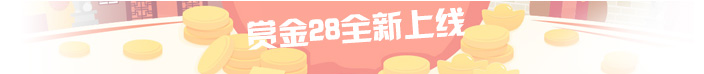
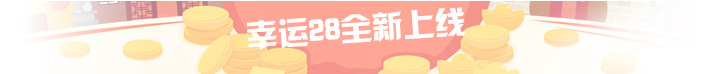
[F]xy2-8

Changed region(s): [[0.3438, 0.2432, 0.4375, 0.6757]]

diff --git a/OWZX/Presentation/OWZX.Web/css/base.css b/OWZX/Presentation/OWZX.Web/css/base.css
@@ -183,7 +183,7 @@ height:36px;margin-top:10px; margin-left:94px;
 #navItme li a.index {background: url(../images/ico.png);background-position: -2px -121px;padding-left: 20px;}
 
 
-#footer{ width:100%;  background:bottom #FFF; margin-top:40px;}
+#footer{ width:100%;  background:bottom #FFF; /*margin-top:40px;*/}
 #footer .box{ width:1000px; padding-left:46px;}
 .footerBox{ padding:18px 0;}
 
@@ -193,7 +193,7 @@ height:36px;margin-top:10px; margin-left:94px;
 .footerBox a:hover{color:#e33b3d;}
 
 
-.footerB{ border-top:1px solid #cacaca; padding-top:10px;}
+.footerB{ /*border-top:1px solid #cacaca;*/ padding-top:10px;}
 #footerB{padding-bottom:30px;text-align:center}
 #footerB div{text-align:center}
 #footerB .links { text-align:center;color:white;}

diff --git a/OWZX/Presentation/OWZX.Web/css/lottery.css b/OWZX/Presentation/OWZX.Web/css/lottery.css
@@ -322,7 +322,7 @@ width:910px; border:0;
 }
 
 #play i {
-    font-size:16px;font-weight:600;color:#c30000;
+    font-size:18px;font-weight:600;color:#c30000;
 }
 
 #play td,.table_rule td {

diff --git a/OWZX/Strategies/OWZX.EmailStrategy.DotNet/EmailStrategy.cs b/OWZX/Strategies/OWZX.EmailStrategy.DotNet/EmailStrategy.cs
@@ -90,7 +90,7 @@ namespace OWZX.EmailStrategy.DotNet
                 client.EnableSsl = true;
                 client.UseDefaultCredentials = false; 
                 client.Credentials = new System.Net.NetworkCredential(_from, _password);
-                MailAddress from = new MailAddress(_from, "赏金28", Encoding.UTF8);//初始化发件人  
+                MailAddress from = new MailAddress(_from, "幸运28", Encoding.UTF8);//初始化发件人  
                 MailAddress toadd = new MailAddress(to, "", Encoding.UTF8);//初始化收件人  
                 //设置邮件内容  
                 MailMessage message = new MailMessage(from, toadd);
